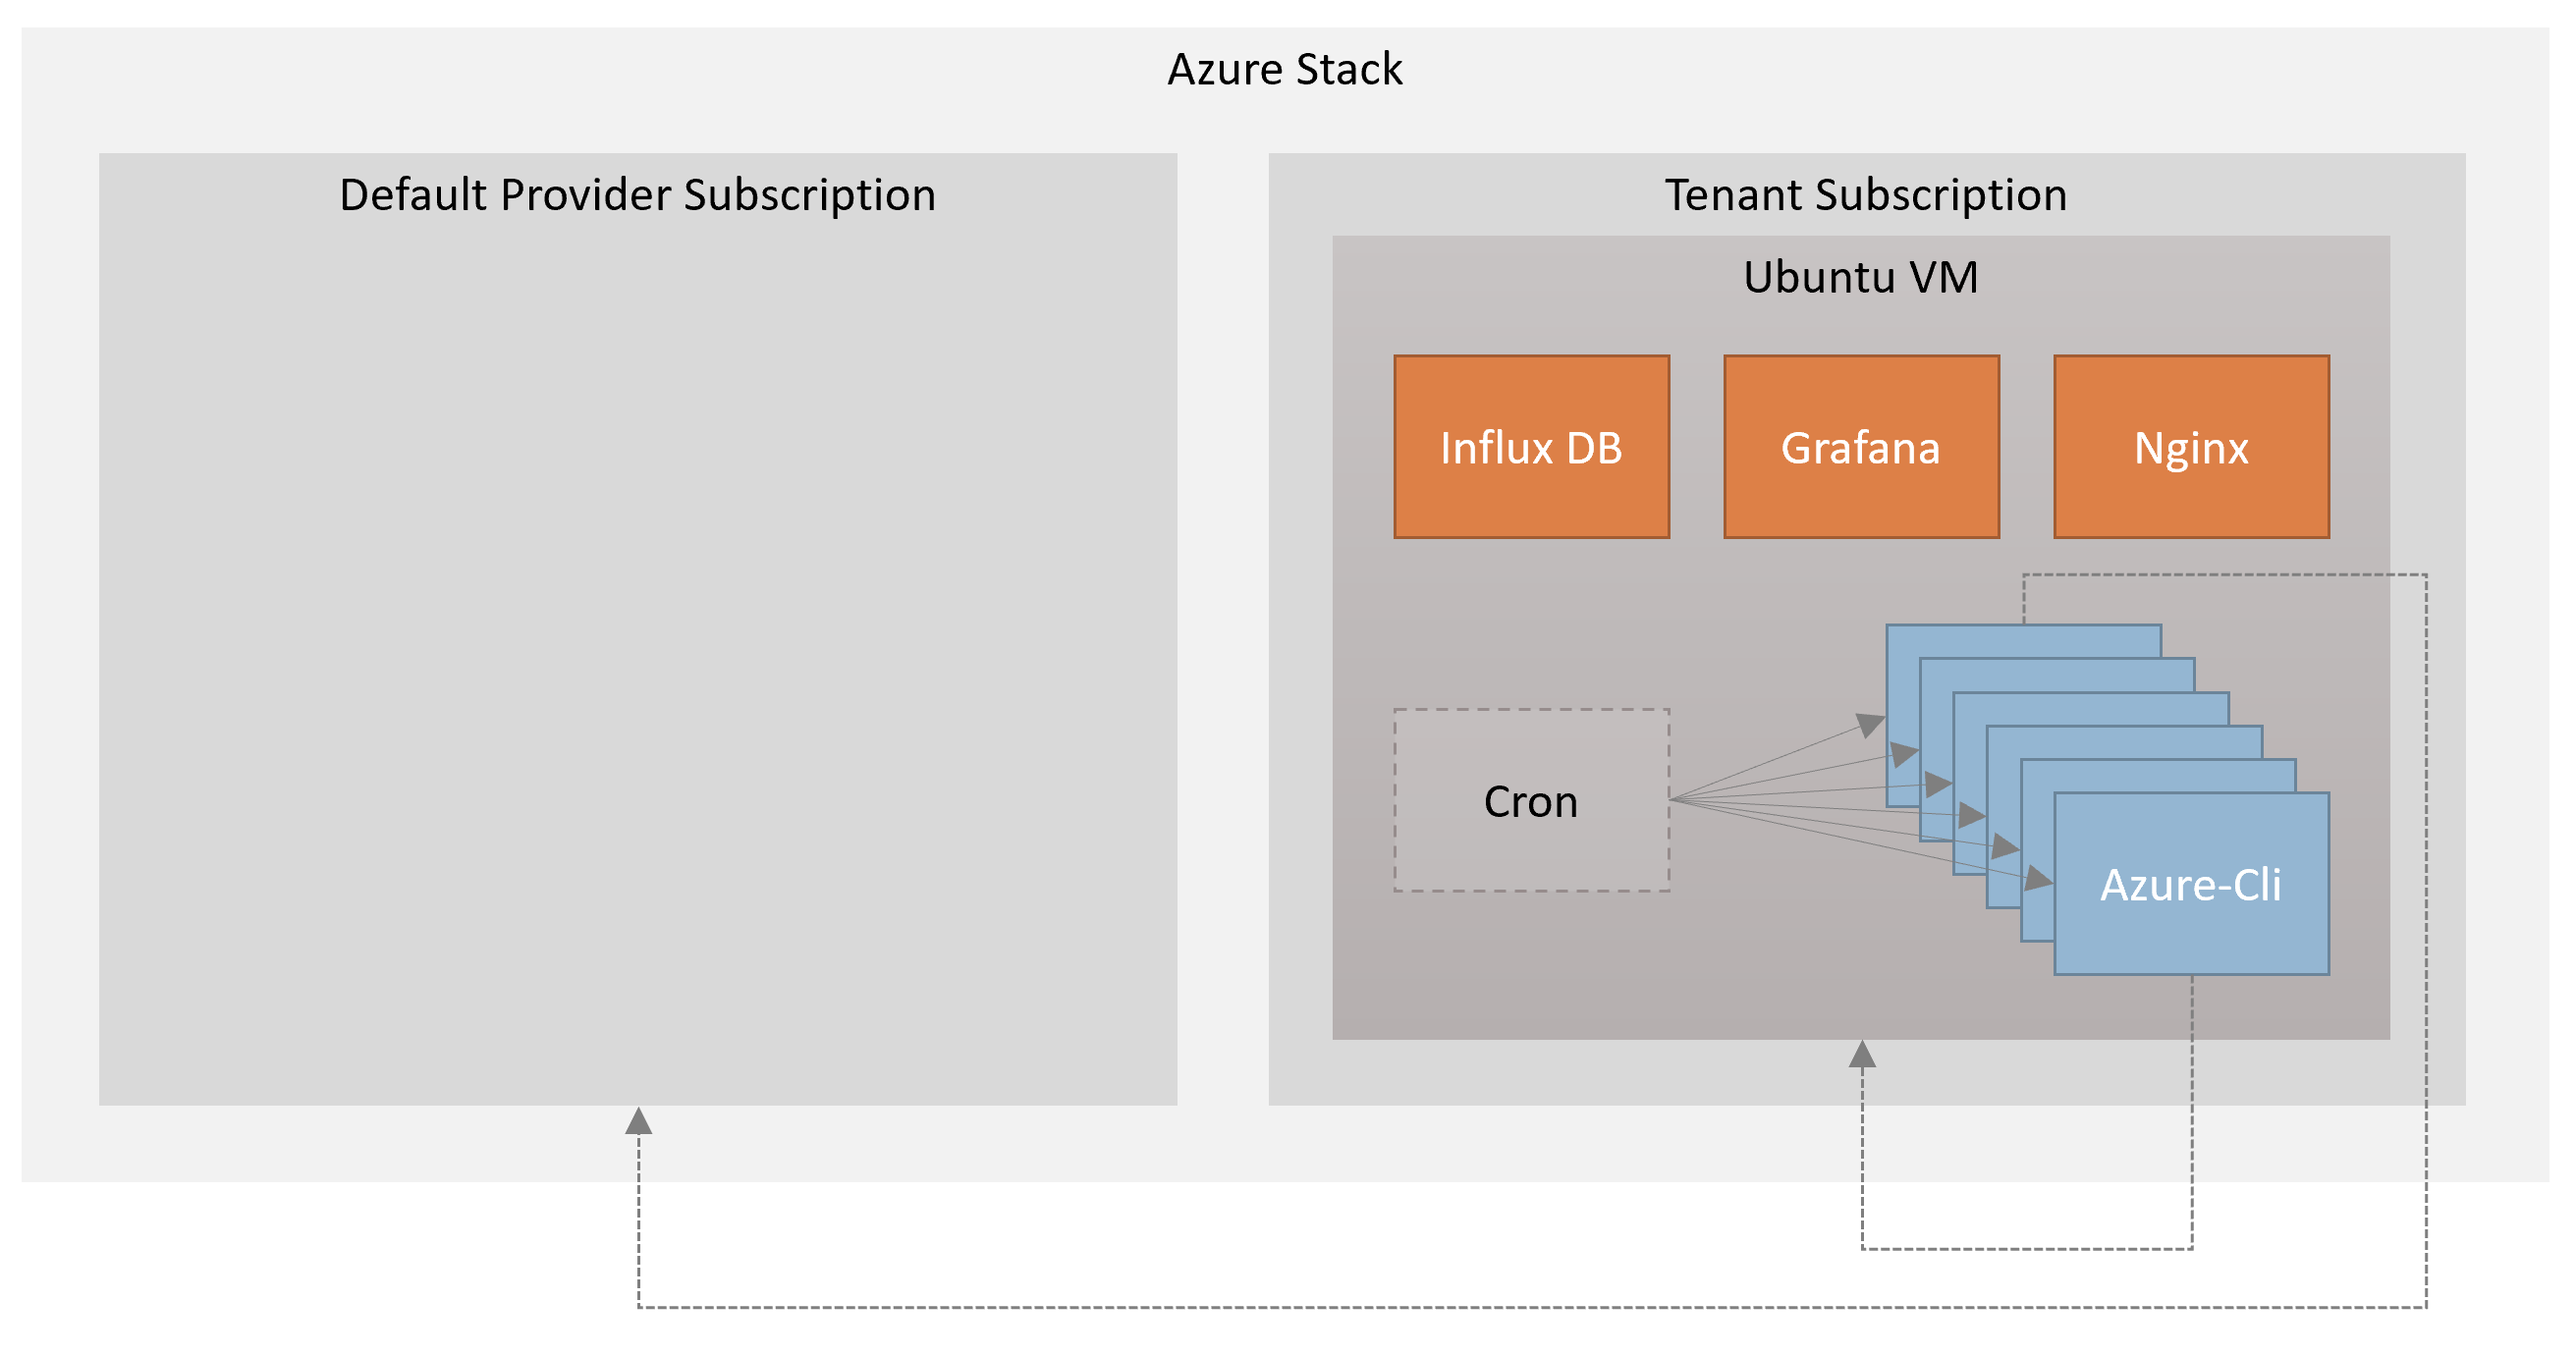
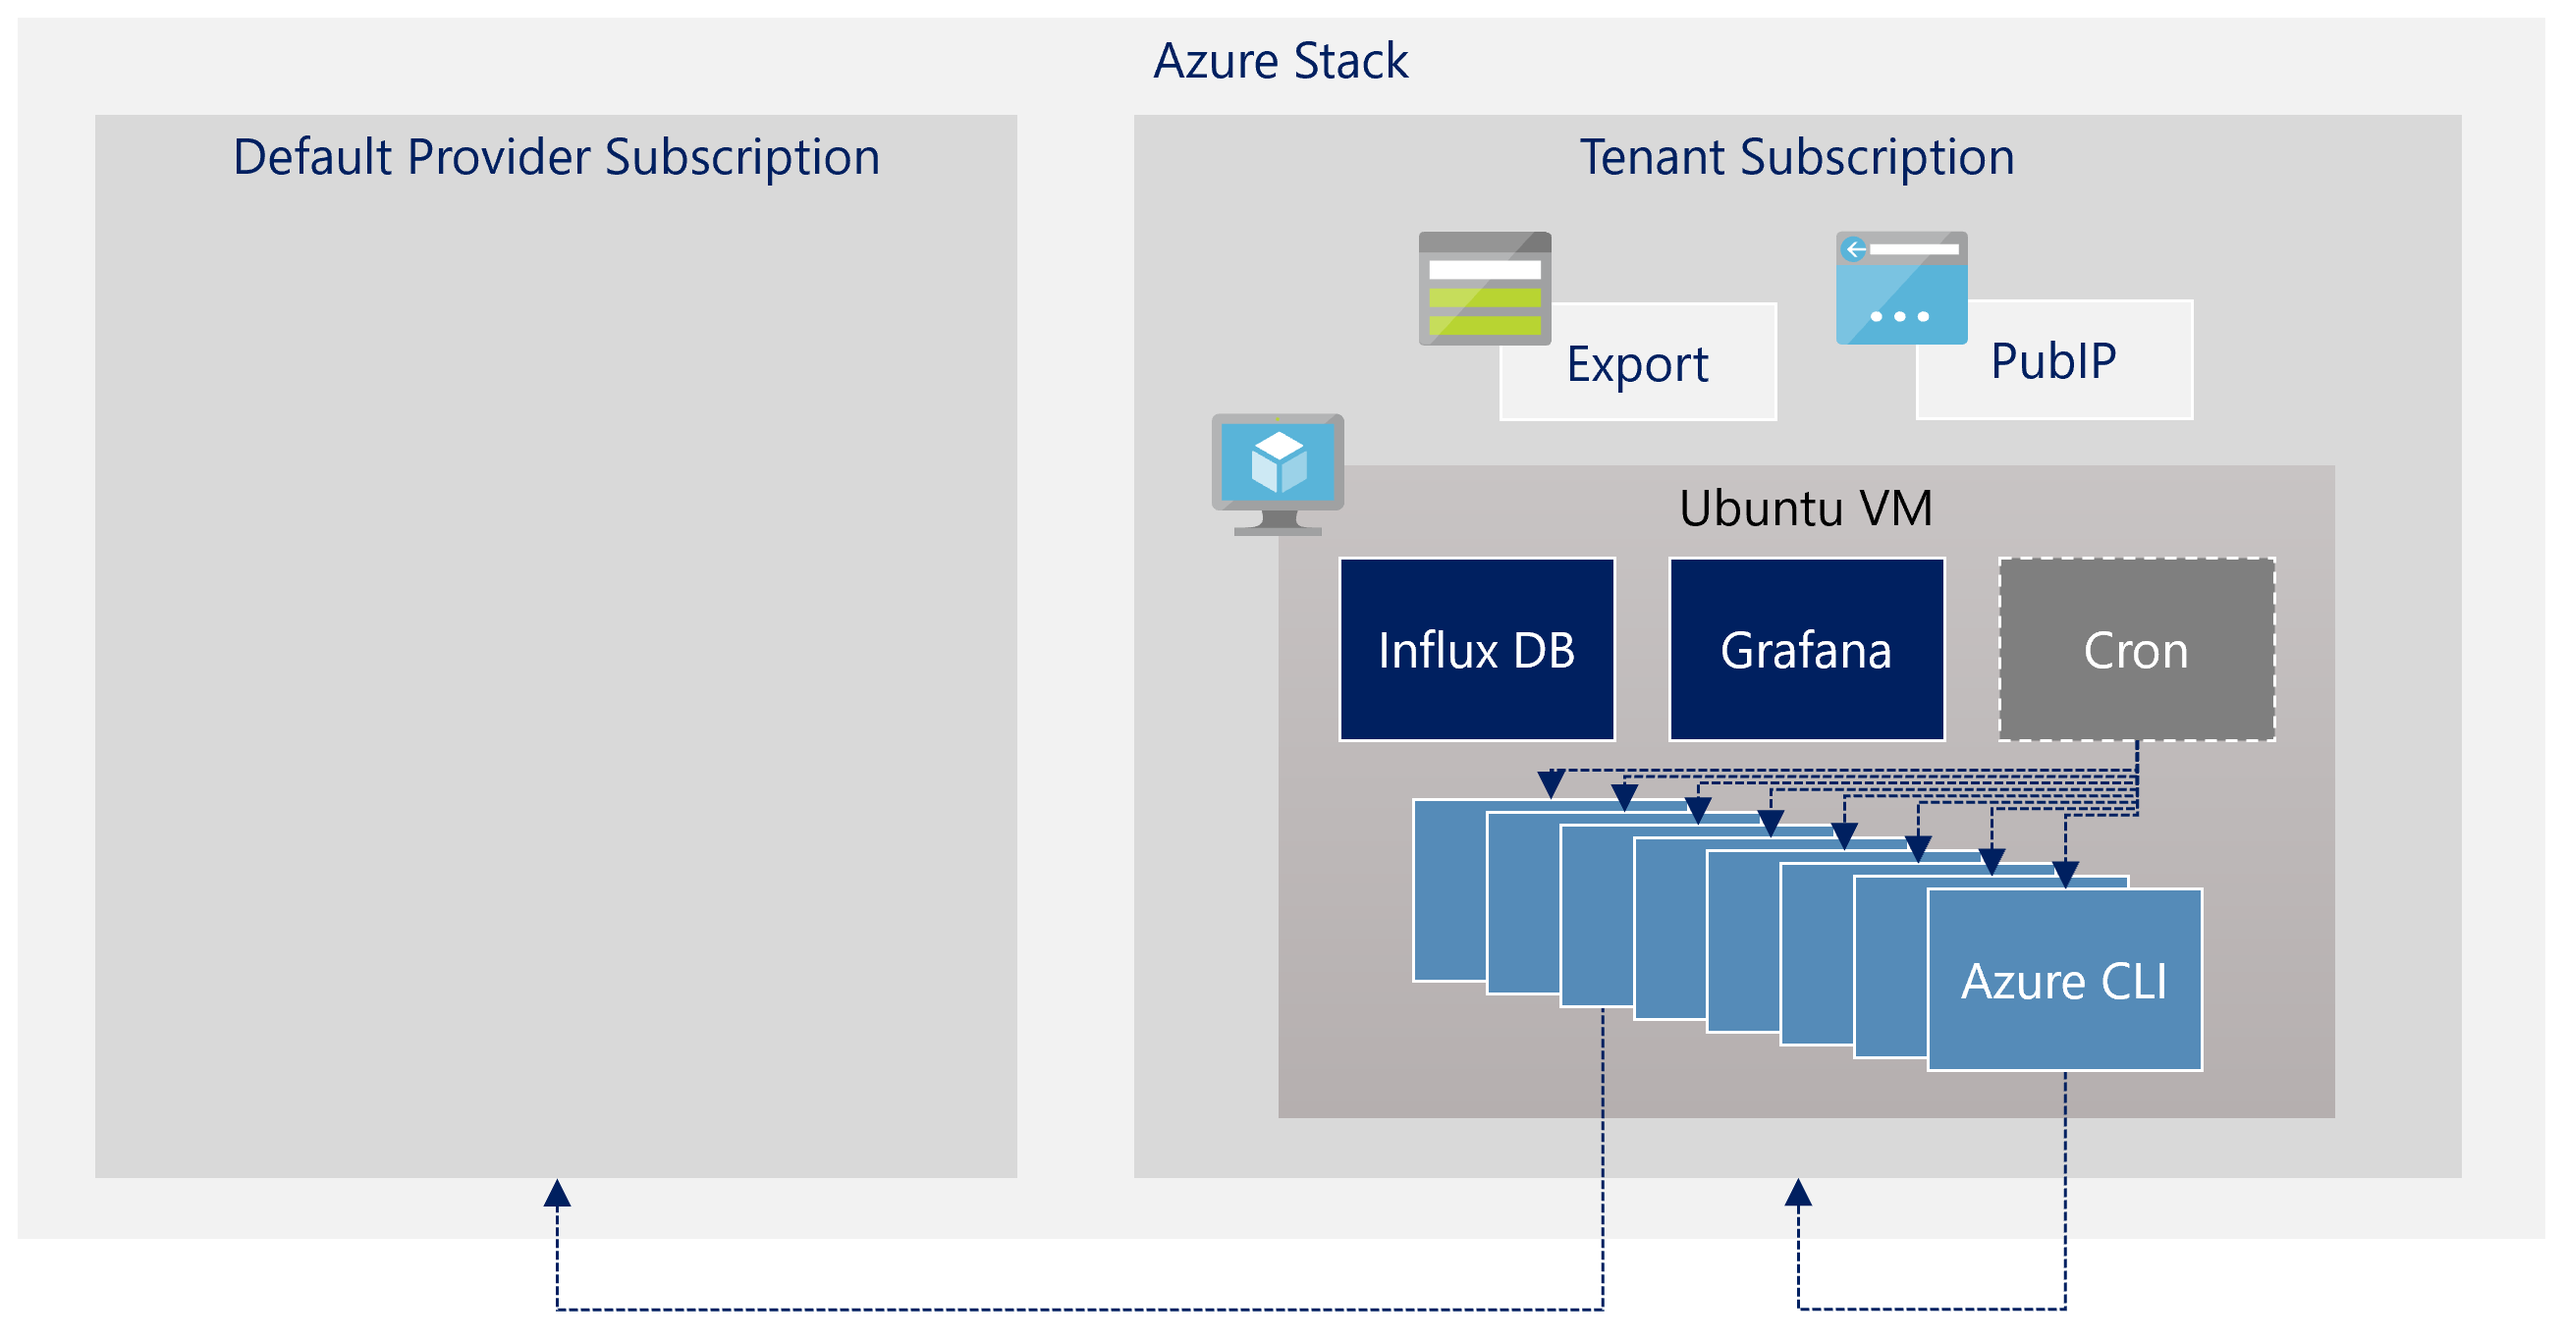
rm nginx, add license, updated diagram

diff --git a/README.md b/README.md
@@ -1,9 +1,9 @@
 # AzureStack Uptime
 
-Azure Stack Uptime is an open source based solution that test the availability of Azure Stack endpoints and workloads. The solution will start testing Azure Stack endpoints directly after it is deployed. 
+Azure Stack Uptime is an open source based solution that tests the availability of Azure Stack endpoints and workloads. The solution will start testing Azure Stack endpoints directly after it is deployed. 
 
 The solution runs on a single VM deployed to an Azure Stack tenant subscription. Multiple scripts are executed at various intervals with cron to test endpoints and workload availability. Each script is executed in a docker container with Azure CLI installed. The scripts write their output to an Influx time series database. The data in the database in visualized with Grafana. Influx and Grafana are both running in a docker container as well.
-Finally the data from the Influx database is exported to CSV on a weekly basis and made available though a website running inside a Nginx container.
+The data from the Influx database is exported to CSV containing the data from the previous week. The CSV is exported daily and stored in the export storage account.
 
 ![diagram](images/diagram.png)
 
@@ -25,7 +25,7 @@ The solution has the following prerequisites.
 
 This procedure requires outbound connectivity for the VM. On avarage the deployment will take ~14 minutes.
 
-To deploy the Asolution, you can either 
+To deploy the solution, you can either 
 
 - select the Template Deployment item from the Azure Stack marketplace, copy the content of the mainTemplate.json of this repository into the template builder, and submit the parameter values
 - or deploy the mainTemplate.json through Azure CLI or PowerShell and submit the parameter values.
@@ -39,7 +39,7 @@ The deployment template requires the following inputs
 
 The deployment template also provides the following optional inputs:
 - ubuntuSku: if a value for this parameter is not specified, the default value of 18.04-LTS will be used. Alternatively you can specify 16.04-LTS as input value. No other input values are allowed
-- triggerdId: This value is only relevant if the template is deployed more than once to the same resource group with existing resources from an earlier deployment with the same template. If the environment is deployed for the first time, the Linux VM extension is triggered automatically. On subsequent deployments to the same resource group with the existing resources, the Linux VM extension is not executed by default. By specifying a different value for the triggerId the Linux VM extension executes again (as long as the triggerId has a different value than the previous deployment). The default value of the triggerId is 1. It excepts any value between 1 and 100
+- triggerdId: This value is only relevant for updating the solution. The solution is updating by deploying the same to the same resource group with existing resources from an earlier deployment. If the environment is deployed for the first time, the Linux VM extension is triggered automatically. On subsequent deployments to the same resource group with the existing resources, the Linux VM extension is not executed by default. By specifying a different value for the triggerId the Linux VM extension executes again (as long as the triggerId has a different value than the previous deployment). The default value of the triggerId is 1. It excepts any value between 1 and 100.
 
 ## Deployment for disconnected environment
 
@@ -56,11 +56,6 @@ The procedure is only intended for disconnected environments that do not have an
 Once the deployment is complete the solution provides the following endpoints
 
 - **Grafana portal** on **https://[loadbalancer-public-ip-address]:3000**
-- **Web page with exported CSV files** on **https://[loadbalancer-public-ip-address]:8080**
 - **SSH to the VM** with **ssh [adminUserName]@[loadbalancer-public-ip-address]**
 
-Each endpoint requires authentication. The Grafana portal and the web page with exported CSV files can be accessed with username **admin** and the password specified for the **grafanaPassword** parameter. Connecting with SSH to the VM requires the the client to have the private key of the SSH key pair (matching the public key specified for the sshPublicKey parameter during deployment) imported into the terminal client.
-
-## Data and export
-
-The job results are stored in the Influx database. Data from each week is exported to comma seperated (.csv) file. The .csv files can be downloaded from the **Web page with exported CSV files**. The database is configured with a retention policy of three months. Any data that is older than 90 days will be automatically purged from the database. The CSV files will not be deleted.
+Each endpoint requires authentication. The Grafana portal can be accessed with username **admin** and the password specified for the **grafanaPassword** parameter. Connecting with SSH to the VM requires the the client to have the private key of the SSH key pair (matching the public key specified for the sshPublicKey parameter during deployment) imported into the terminal client.
